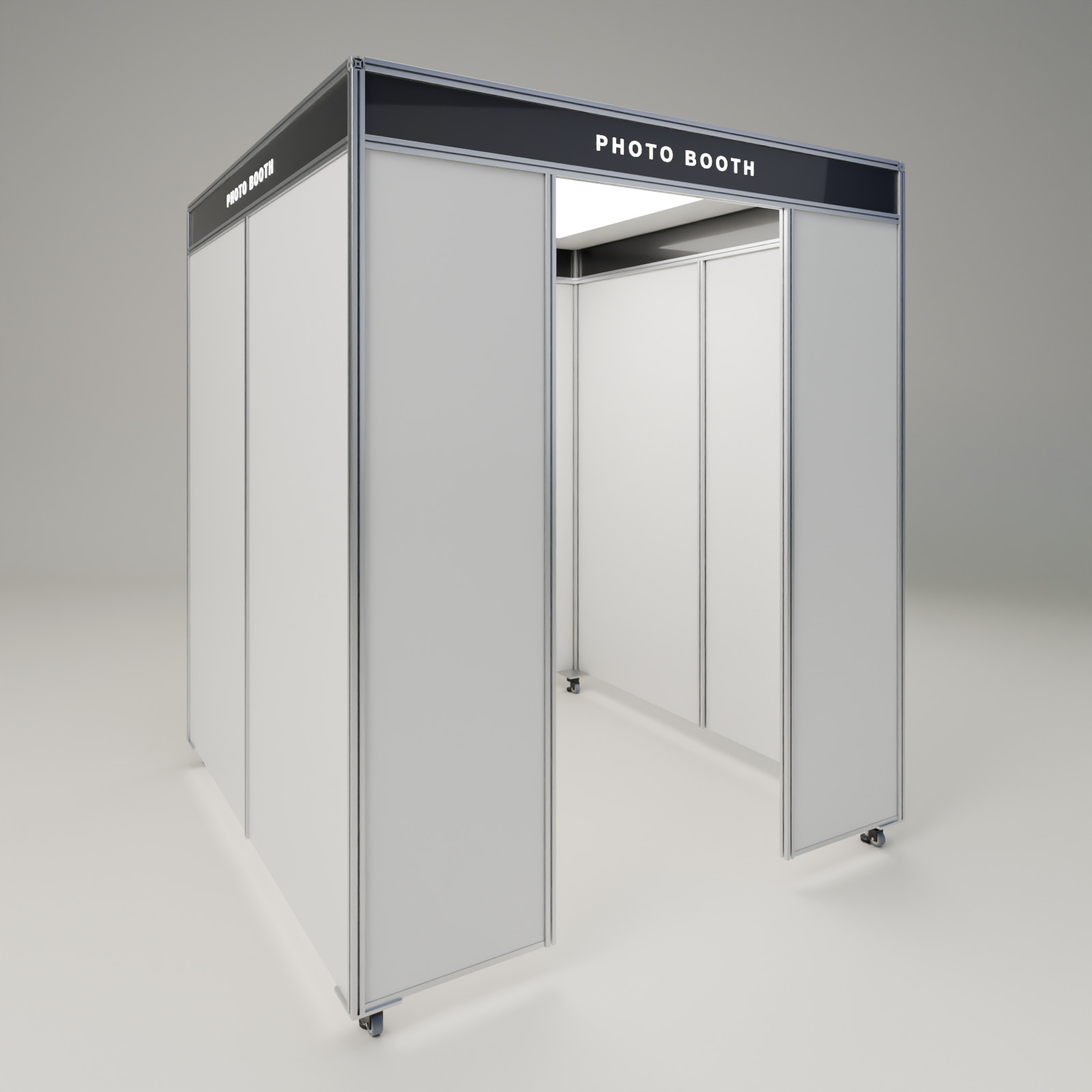
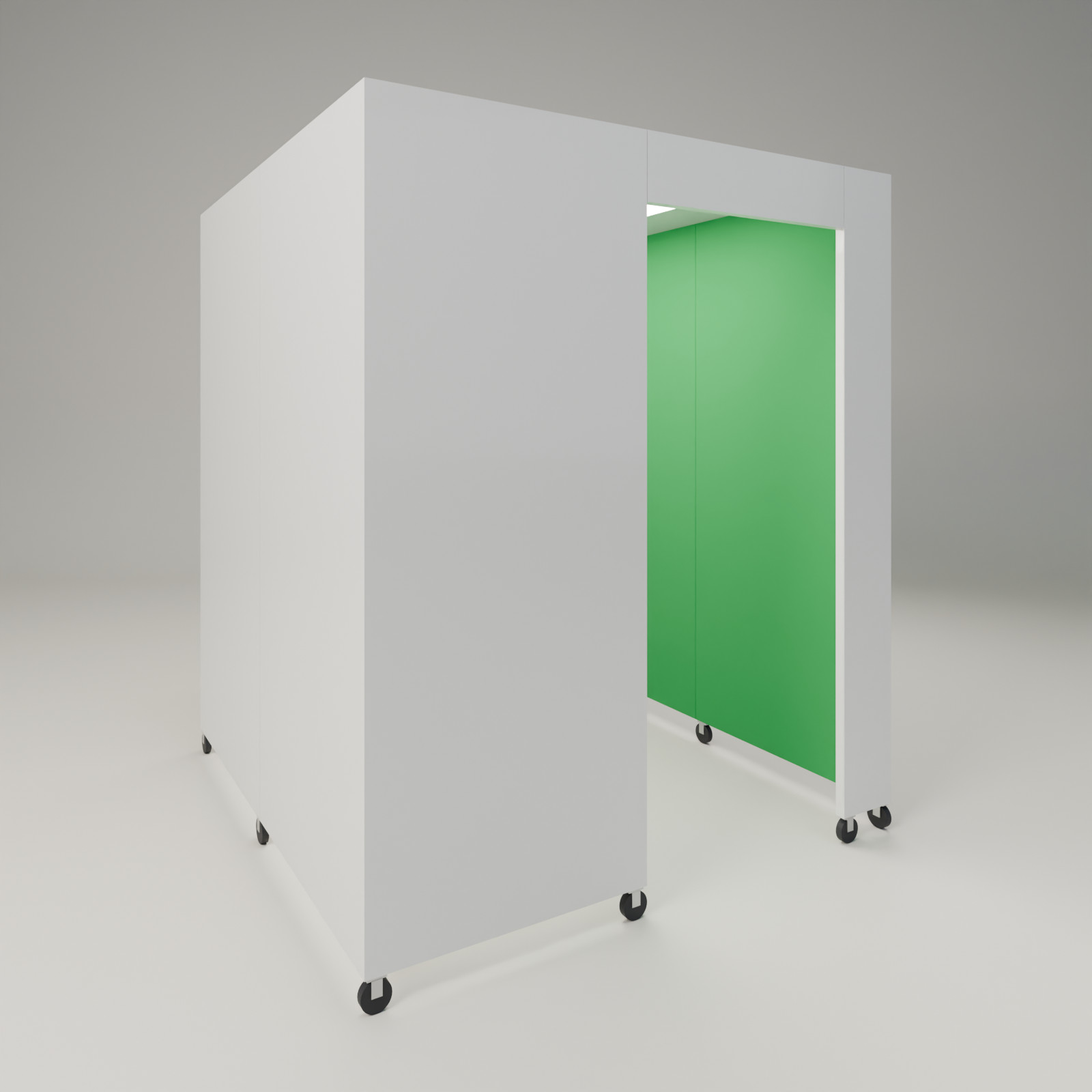
스탠다드 부스 정식 디자인 반영 — 표지 렌더·사양·갤러리
동주님 확정(2026-10-21): 화이트 외피(뼈대는 벽 속, 겉은 매끈) · 문을 보고 오른쪽 안쪽 벽만 무광 초록,
나머지 안쪽 흰색 · 가운데 숨은 경첩으로 옆·뒷면 반 접기, 입구 면은 두 조각 → 5조각 운반.

- 표지 6장(4x5·1x1·angle1~3·thumb) 새 디자인 CAD 렌더로 교체(같은 표지 스튜디오)
- 갤러리: 옛 디자인 CAD 렌더 5장(키오스크 세트·랩핑 예시·기본형·크기 비교·트럭) 제거,
  정식 디자인 '네 면 분리·반 접기·접은 5조각' 3장 추가
- 사양: 높이(바퀴 포함 약 2.19m)·구조·반입·이동 문구, 장점 '촬영 배경은 무광 초록 벽' 추가
- 과거 행사 실사 사진은 실제 납품 사례라 유지
site-gate 78 HTML PASS · build --check 바뀔 파일 없음 · 데스크톱/모바일 깨진 이미지 0

Claude-Session: https://claude.ai/code/session_01HGw79DZARAGa3xCFQSLrQB

diff --git a/products/standard-booth.html b/products/standard-booth.html
@@ -83,20 +83,20 @@
 <section class="pd-hero"><div class="wrap">
   <nav class="crumb" aria-label="현재 위치"><a href="../index.html">홈</a><span aria-hidden="true">›</span><a href="../products.html">제품</a><span aria-hidden="true">›</span><span aria-current="page">스탠다드 부스</span></nav>
   <div class="pd-grid">
-    <figure class="pd-cover"><img src="../assets/images/covers/standard-booth_4x5.jpg" width="1600" height="2000" alt="스탠다드 부스 — CAD 3D 렌더" srcset="../assets/images/covers/w800/standard-booth_4x5-w800-f1150465.jpg 800w, ../assets/images/covers/standard-booth_4x5.jpg 1600w" sizes="(max-width:560px) 74vw, (max-width:880px) 56vw, 580px" fetchpriority="high" decoding="async"><span class="render-tag">CAD 3D 렌더</span></figure>
+    <figure class="pd-cover"><img src="../assets/images/covers/standard-booth_4x5.jpg" width="1600" height="2000" alt="스탠다드 부스 — CAD 3D 렌더" srcset="../assets/images/covers/w800/standard-booth_4x5-w800-6d16eee1.jpg 800w, ../assets/images/covers/standard-booth_4x5.jpg 1600w" sizes="(max-width:560px) 74vw, (max-width:880px) 56vw, 580px" fetchpriority="high" decoding="async"><span class="render-tag">CAD 3D 렌더</span></figure>
     <div class="pd-info">
       <span class="idxlabel">제품 01 / 07</span>
       <h1>스탠다드 부스</h1>
       <p class="pd-tagline">4면 랩핑·설치·회수 포함, 루아미 주력 포토부스</p>
       <div class="pd-sum"><p class="pd-sum-p"><span class="pd-sum-k">렌탈</span><span class="amt" data-price-key="std_short">1개월 미만 185만원</span><small class="vat">부가세 별도</small></p><a class="pd-sum-q" href="../index.html?product=%EC%8A%A4%ED%83%A0%EB%8B%A4%EB%93%9C%20%EB%B6%80%EC%8A%A4#contact">무료 견적 받기 <span aria-hidden="true">→</span></a></div>
-      <div class="pd-chips"><span class="badge badge-main">주력</span><span class="badge badge-line">실사 16장</span><span class="badge badge-line">CAD 3D 렌더 8장</span></div>
+      <div class="pd-chips"><span class="badge badge-main">주력</span><span class="badge badge-line">실사 16장</span><span class="badge badge-line">CAD 3D 렌더 6장</span></div>
       <p class="pd-lead">가로·세로 1.86m, 높이 약 2.1m의 정사각형 포토부스입니다. 1개월 미만 렌탈 패키지에 촬영 키오스크(부스 안에서 찍고 출력하는 기계), 4면 랩핑(겉면 네 면에 행사 디자인을 인쇄해 붙이는 것), 인화지(사진 출력 용지) 1,400매, 설치·회수(행사 후 철거해 가져감)가 모두 포함됩니다. 운송비는 별도입니다.</p>
       <div class="pricebox">
         <div class="pb-row"><span class="pb-k">렌탈</span><span class="pb-v"><span class="amt" data-price-key="std_short">1개월 미만 185만원</span> <small class="vat">부가세 별도</small></span></div><div class="pb-row"><span class="pb-k">구매</span><span class="pb-v"><span class="amt" data-price-key="std_buy">500만원</span> <small class="vat">부가세 별도</small></span></div>
         <div class="pb-ie"><span class="pb-k">포함</span><ul class="pb-inc" data-list="included"><li data-item="부스 1대">부스 1대</li><li data-item="촬영 키오스크">촬영 키오스크</li><li data-item="4면 랩핑">4면 랩핑</li><li data-item="인화지 1,400매">인화지 1,400매</li><li data-item="설치·회수">설치·회수</li></ul></div><div class="pb-ie"><span class="pb-k">별도</span><span class="pb-sep">운송비 · 추가 대수·기간·인화지</span></div>
         <p class="pb-note"><a href="#price">가격 조건 보기</a> · <a href="../pricing.html">전체 가격표</a></p>
       </div>
-      <nav class="pd-jump" aria-label="이 페이지 바로가기"><a href="#gallery">사진 24장</a><a href="#stories">사례·이야기 10</a><a href="#faq">자주 묻는 질문</a></nav>
+      <nav class="pd-jump" aria-label="이 페이지 바로가기"><a href="#gallery">사진 22장</a><a href="#stories">사례·이야기 10</a><a href="#faq">자주 묻는 질문</a></nav>
       <div class="pd-cta"><a class="btn" href="../index.html?product=%EC%8A%A4%ED%83%A0%EB%8B%A4%EB%93%9C%20%EB%B6%80%EC%8A%A4#contact">무료 견적 받기 <svg width="16" height="16" viewBox="0 0 24 24" fill="none" stroke="currentColor" stroke-width="2" stroke-linecap="round" stroke-linejoin="round" aria-hidden="true"><path d="M5 12h14M13 6l6 6-6 6"/></svg></a><a class="btn-ghost" href="https://pf.kakao.com/_YRxoPX/chat" target="_blank" rel="noopener">카톡으로 바로 상담</a></div>
     </div>
   </div>
@@ -109,13 +109,14 @@
     <li><b>4면 랩핑 기본 포함</b><span>앞·뒤·양옆 네 면을 행사 디자인으로 감싸, 멀리서도 포토존이 한눈에 보입니다.</span></li>
     <li><b>문 없는 입구(폭 약 80cm)</b><span>앞면에 문짝 없이 폭 약 80cm 입구가 열려 있어 처음 보는 사람도 쉽게 들어갑니다. 커튼은 행사에 맞춰 달지 말지 정하시면 됩니다.</span></li>
     <li><b>정가 렌탈, 바로 예산 확정</b><span>부스·촬영 키오스크·랩핑·인화지 1,400매·설치·회수를 한 가격에 묶은 정가 렌탈이라, 견적을 여러 번 주고받지 않아도 예산을 바로 잡을 수 있습니다.</span></li>
-    <li><b>바닥판 없음 · 접어서 운반</b><span>바닥판 없이 설치 장소 바닥을 그대로 쓰고, 벽면을 하나씩 떼어 접어서 옮깁니다.</span></li>
+    <li><b>바닥판 없음 · 5조각으로 접어서 운반</b><span>바닥판 없이 설치 장소 바닥을 그대로 쓰고, 네 면을 떼어 옆·뒷면은 반으로 접고 입구 면은 두 조각으로 나눠 5조각으로 옮깁니다. 접는 경첩은 벽 속에 숨어 있어 안팎 어디서도 보이지 않습니다.</span></li>
+    <li><b>촬영 배경은 무광 초록 벽</b><span>문을 보고 오른쪽 안쪽 벽은 빛 반사가 적은 무광 초록이고, 나머지 안쪽 벽은 흰색입니다. 겉면은 뼈대가 드러나지 않는 매끈한 흰 판이라 랩핑이 깔끔하게 붙습니다.</span></li>
     <li><b>촬영 화면도 행사 디자인으로</b><span>기계 첫 화면부터 사진 테두리(프레임)까지 행사에 맞게 바꿀 수 있습니다. 인천대학교 학위수여식에서는 화면 10개를 모두 학교 디자인으로 바꿨습니다.</span></li>
   </ol>
 </div></section>
 <section class="pd-gallery" id="gallery"><div class="wrap">
   <div class="ps-head">
-    <div><span class="idxlabel">사진 24장</span><h2>사진으로 보기</h2><p>사진을 누르면 크게 볼 수 있습니다. 실제 사진이 아닌 설계 3D 이미지에는 ‘CAD 3D 렌더’라고 표시했습니다.</p></div>
+    <div><span class="idxlabel">사진 22장</span><h2>사진으로 보기</h2><p>사진을 누르면 크게 볼 수 있습니다. 실제 사진이 아닌 설계 3D 이미지에는 ‘CAD 3D 렌더’라고 표시했습니다.</p></div>
   </div>
   <div class="pg-grid" data-gallery="standard-booth">
     <a class="pg-item pg-wide" href="../assets/images/products/standard-booth/14-muji-wrap-front.webp" data-w="750" data-h="1000" data-caption="무인양품 구황장 · 4면 랩핑 정면"><img src="../assets/images/products/standard-booth/thumb/14-muji-wrap-front.webp" srcset="../assets/images/products/standard-booth/thumb/14-muji-wrap-front.webp 450w, ../assets/images/products/standard-booth/14-muji-wrap-front.webp 750w" sizes="(max-width:880px) 96vw, 610px" width="750" height="1000" alt="무인양품 「2026 연결되는 시장 · 구황장」 그래픽으로 네 면을 랩핑한 스탠다드 부스 정면 — 야간 실내 광장, 열린 출입구의 흰 조명" loading="lazy" decoding="async"><span class="pg-cap">무인양품 구황장 · 4면 랩핑 정면</span></a>
@@ -133,14 +134,12 @@
     <a class="pg-item" href="../assets/images/products/standard-booth/18-kiosk-inside-muji.webp" data-w="750" data-h="1000" data-caption="부스 안 구성 · 키오스크와 랩핑 패널"><img src="../assets/images/products/standard-booth/thumb/18-kiosk-inside-muji.webp" srcset="../assets/images/products/standard-booth/thumb/18-kiosk-inside-muji.webp 450w, ../assets/images/products/standard-booth/18-kiosk-inside-muji.webp 750w" sizes="(max-width:880px) 48vw, 300px" width="750" height="1000" alt="무인양품 랩핑 패널 너머로 보이는 부스 내부 — 천장 조명, 원형 링조명 카메라, 진회색 촬영 키오스크" loading="lazy" decoding="async"><span class="pg-cap">부스 안 구성 · 키오스크와 랩핑 패널</span></a>
     <a class="pg-item" href="../assets/images/products/standard-booth/19-kiosk-inside-angle.webp" data-w="750" data-h="1000" data-caption="부스 안 구성 · 다른 각도"><img src="../assets/images/products/standard-booth/thumb/19-kiosk-inside-angle.webp" srcset="../assets/images/products/standard-booth/thumb/19-kiosk-inside-angle.webp 450w, ../assets/images/products/standard-booth/19-kiosk-inside-angle.webp 750w" sizes="(max-width:880px) 48vw, 300px" width="750" height="1000" alt="부스 안 촬영 키오스크와 링조명 카메라를 비스듬히 본 모습 — 흰 내벽과 천장 조명" loading="lazy" decoding="async"><span class="pg-cap">부스 안 구성 · 다른 각도</span></a>
     <a class="pg-item" href="../assets/images/products/standard-booth/10-top-corner.webp" data-w="1600" data-h="1600" data-caption="상단 모서리·천장판 마감"><img src="../assets/images/products/standard-booth/thumb/10-top-corner.webp" srcset="../assets/images/products/standard-booth/thumb/10-top-corner.webp 600w, ../assets/images/products/standard-booth/10-top-corner.webp 1600w" sizes="(max-width:880px) 48vw, 300px" width="1600" height="1600" alt="랩핑 부스 상단 모서리 마감 — 알루미늄 몰딩과 천장판, 테두리 일러스트 그래픽" loading="lazy" decoding="async"><span class="pg-cap">상단 모서리·천장판 마감</span></a>
-    <a class="pg-item" href="../assets/images/covers/standard-booth_angle1.jpg" data-w="1600" data-h="1200" data-caption="CAD 3D 렌더 · 정면"><img src="../assets/images/covers/w800/standard-booth_angle1-w800-97bba99f.jpg" srcset="../assets/images/covers/w800/standard-booth_angle1-w800-97bba99f.jpg 800w, ../assets/images/covers/standard-booth_angle1.jpg 1600w" sizes="(max-width:880px) 48vw, 300px" width="1600" height="1200" alt="스탠다드 부스 CAD 3D 렌더 — 정면" loading="lazy" decoding="async"><span class="render-tag">CAD 3D 렌더</span><span class="pg-cap">정면</span></a>
-    <a class="pg-item" href="../assets/images/covers/standard-booth_angle2.jpg" data-w="1600" data-h="1200" data-caption="CAD 3D 렌더 · 다른 방향"><img src="../assets/images/covers/w800/standard-booth_angle2-w800-29a10690.jpg" srcset="../assets/images/covers/w800/standard-booth_angle2-w800-29a10690.jpg 800w, ../assets/images/covers/standard-booth_angle2.jpg 1600w" sizes="(max-width:880px) 48vw, 300px" width="1600" height="1200" alt="스탠다드 부스 CAD 3D 렌더 — 다른 방향" loading="lazy" decoding="async"><span class="render-tag">CAD 3D 렌더</span><span class="pg-cap">다른 방향</span></a>
-    <a class="pg-item" href="../assets/images/covers/standard-booth_angle3.jpg" data-w="1600" data-h="1200" data-caption="CAD 3D 렌더 · 높은 시점"><img src="../assets/images/covers/w800/standard-booth_angle3-w800-4e7e5ffb.jpg" srcset="../assets/images/covers/w800/standard-booth_angle3-w800-4e7e5ffb.jpg 800w, ../assets/images/covers/standard-booth_angle3.jpg 1600w" sizes="(max-width:880px) 48vw, 300px" width="1600" height="1200" alt="스탠다드 부스 CAD 3D 렌더 — 높은 시점" loading="lazy" decoding="async"><span class="render-tag">CAD 3D 렌더</span><span class="pg-cap">높은 시점</span></a>
-    <a class="pg-item" href="../assets/images/covers/standard-booth_set_4x5.jpg" data-w="1600" data-h="2000" data-caption="CAD 3D 렌더 · 부스 안 촬영 키오스크 구성"><img src="../assets/images/covers/w800/standard-booth_set_4x5-w800-916dc41f.jpg" srcset="../assets/images/covers/w800/standard-booth_set_4x5-w800-916dc41f.jpg 800w, ../assets/images/covers/standard-booth_set_4x5.jpg 1600w" sizes="(max-width:880px) 48vw, 300px" width="1600" height="2000" alt="스탠다드 부스 CAD 3D 렌더 — 열린 앞면 안쪽에 진회색 경사형 촬영 키오스크와 원형 링조명 카메라" loading="lazy" decoding="async"><span class="render-tag">CAD 3D 렌더</span><span class="pg-cap">부스 안 촬영 키오스크 구성</span></a>
-    <a class="pg-item" href="../assets/images/covers/standard-booth_set_wrap_4x5.jpg" data-w="1600" data-h="2000" data-caption="CAD 3D 렌더 · 4면 랩핑 예시 무늬"><img src="../assets/images/covers/w800/standard-booth_set_wrap_4x5-w800-e3596c6e.jpg" srcset="../assets/images/covers/w800/standard-booth_set_wrap_4x5-w800-e3596c6e.jpg 800w, ../assets/images/covers/standard-booth_set_wrap_4x5.jpg 1600w" sizes="(max-width:880px) 48vw, 300px" width="1600" height="2000" alt="스탠다드 부스 CAD 3D 렌더 — 겉면에 일러스트 무늬를 랩핑한 예시와 안쪽 촬영 키오스크" loading="lazy" decoding="async"><span class="render-tag">CAD 3D 렌더</span><span class="pg-cap">4면 랩핑 예시 무늬</span></a>
-    <a class="pg-item" href="../assets/images/products/standard-booth/11-render-hero.webp" data-w="1600" data-h="1600" data-caption="CAD 3D 렌더 · 기본형"><img src="../assets/images/products/standard-booth/thumb/11-render-hero.webp" srcset="../assets/images/products/standard-booth/thumb/11-render-hero.webp 600w, ../assets/images/products/standard-booth/11-render-hero.webp 1600w" sizes="(max-width:880px) 48vw, 300px" width="1600" height="1600" alt="스탠다드 부스 CAD 3D 렌더 — 1860×1860×2100mm 흰색 알루미늄 패널 부스, 문 없는 출입구와 하단 캐스터" loading="lazy" decoding="async" style="object-fit:contain;background:linear-gradient(#bebdbd,#b5b3b1)"><span class="render-tag">CAD 3D 렌더</span><span class="pg-cap">기본형</span></a>
-    <a class="pg-item" href="../assets/images/products/standard-booth/12-render-scale.webp" data-w="1400" data-h="894" data-caption="CAD 3D 렌더 · 사람과 크기 비교"><img src="../assets/images/products/standard-booth/thumb/12-render-scale.webp" srcset="../assets/images/products/standard-booth/thumb/12-render-scale.webp 600w, ../assets/images/products/standard-booth/12-render-scale.webp 1400w" sizes="(max-width:880px) 48vw, 300px" width="1400" height="894" alt="사람 모형 옆에 세운 스탠다드 부스 CAD 3D 렌더 — 크기 비교" loading="lazy" decoding="async" style="object-fit:contain;background:linear-gradient(#bebdbc,#b4b2b0)"><span class="render-tag">CAD 3D 렌더</span><span class="pg-cap">사람과 크기 비교</span></a>
-    <a class="pg-item" href="../assets/images/products/standard-booth/13-render-truck.webp" data-w="1400" data-h="894" data-caption="CAD 3D 렌더 · 접어서 트럭 운송"><img src="../assets/images/products/standard-booth/thumb/13-render-truck.webp" srcset="../assets/images/products/standard-booth/thumb/13-render-truck.webp 600w, ../assets/images/products/standard-booth/13-render-truck.webp 1400w" sizes="(max-width:880px) 48vw, 300px" width="1400" height="894" alt="면별로 접은 스탠다드 부스 판넬을 트럭 적재함에 실은 CAD 3D 렌더" loading="lazy" decoding="async" style="object-fit:contain;background:linear-gradient(#c3c2c2,#b4b2b0)"><span class="render-tag">CAD 3D 렌더</span><span class="pg-cap">접어서 트럭 운송</span></a>
+    <a class="pg-item" href="../assets/images/covers/standard-booth_angle1.jpg" data-w="1600" data-h="1200" data-caption="CAD 3D 렌더 · 정면"><img src="../assets/images/covers/w800/standard-booth_angle1-w800-ecce20e0.jpg" srcset="../assets/images/covers/w800/standard-booth_angle1-w800-ecce20e0.jpg 800w, ../assets/images/covers/standard-booth_angle1.jpg 1600w" sizes="(max-width:880px) 48vw, 300px" width="1600" height="1200" alt="스탠다드 부스 CAD 3D 렌더 — 정면" loading="lazy" decoding="async"><span class="render-tag">CAD 3D 렌더</span><span class="pg-cap">정면</span></a>
+    <a class="pg-item" href="../assets/images/covers/standard-booth_angle2.jpg" data-w="1600" data-h="1200" data-caption="CAD 3D 렌더 · 다른 방향"><img src="../assets/images/covers/w800/standard-booth_angle2-w800-087e30f5.jpg" srcset="../assets/images/covers/w800/standard-booth_angle2-w800-087e30f5.jpg 800w, ../assets/images/covers/standard-booth_angle2.jpg 1600w" sizes="(max-width:880px) 48vw, 300px" width="1600" height="1200" alt="스탠다드 부스 CAD 3D 렌더 — 다른 방향" loading="lazy" decoding="async"><span class="render-tag">CAD 3D 렌더</span><span class="pg-cap">다른 방향</span></a>
+    <a class="pg-item" href="../assets/images/covers/standard-booth_angle3.jpg" data-w="1600" data-h="1200" data-caption="CAD 3D 렌더 · 높은 시점"><img src="../assets/images/covers/w800/standard-booth_angle3-w800-ecd918d7.jpg" srcset="../assets/images/covers/w800/standard-booth_angle3-w800-ecd918d7.jpg 800w, ../assets/images/covers/standard-booth_angle3.jpg 1600w" sizes="(max-width:880px) 48vw, 300px" width="1600" height="1200" alt="스탠다드 부스 CAD 3D 렌더 — 높은 시점" loading="lazy" decoding="async"><span class="render-tag">CAD 3D 렌더</span><span class="pg-cap">높은 시점</span></a>
+    <a class="pg-item" href="../assets/images/covers/standard-booth_fold_separate.jpg" data-w="1600" data-h="1100" data-caption="CAD 3D 렌더 · 네 면 분리"><img src="../assets/images/covers/w800/standard-booth_fold_separate-w800-eaf1df93.jpg" srcset="../assets/images/covers/w800/standard-booth_fold_separate-w800-eaf1df93.jpg 800w, ../assets/images/covers/standard-booth_fold_separate.jpg 1600w" sizes="(max-width:880px) 48vw, 300px" width="1600" height="1100" alt="스탠다드 부스 CAD 3D 렌더 — 흰색 네 면을 바깥쪽으로 떼어 낸 모습, 문을 보고 오른쪽 안쪽 벽만 무광 초록" loading="lazy" decoding="async"><span class="render-tag">CAD 3D 렌더</span><span class="pg-cap">네 면 분리</span></a>
+    <a class="pg-item pg-w2" href="../assets/images/covers/standard-booth_fold_half.jpg" data-w="1600" data-h="1100" data-caption="CAD 3D 렌더 · 반 접기(숨은 경첩)"><img src="../assets/images/covers/w800/standard-booth_fold_half-w800-d26eeaa1.jpg" srcset="../assets/images/covers/w800/standard-booth_fold_half-w800-d26eeaa1.jpg 800w, ../assets/images/covers/standard-booth_fold_half.jpg 1600w" sizes="(max-width:880px) 96vw, 610px" width="1600" height="1100" alt="스탠다드 부스 CAD 3D 렌더 — 옆·뒷면 세 장을 가운데 숨은 경첩으로 반쯤 접고, 입구 면은 두 조각으로 나눈 모습" loading="lazy" decoding="async"><span class="render-tag">CAD 3D 렌더</span><span class="pg-cap">반 접기(숨은 경첩)</span></a>
+    <a class="pg-item pg-w2" href="../assets/images/covers/standard-booth_fold_pieces.jpg" data-w="1600" data-h="1100" data-caption="CAD 3D 렌더 · 접은 5조각"><img src="../assets/images/covers/w800/standard-booth_fold_pieces-w800-7d347ce4.jpg" srcset="../assets/images/covers/w800/standard-booth_fold_pieces-w800-7d347ce4.jpg 800w, ../assets/images/covers/standard-booth_fold_pieces.jpg 1600w" sizes="(max-width:880px) 96vw, 610px" width="1600" height="1100" alt="스탠다드 부스 CAD 3D 렌더 — 다 접은 흰색 판 5조각을 나란히 세운 모습(바퀴 달림)" loading="lazy" decoding="async"><span class="render-tag">CAD 3D 렌더</span><span class="pg-cap">접은 5조각</span></a>
     <a class="pg-item pg-w2" href="../assets/images/products/standard-booth/09-sketch-wrap.webp" data-w="1600" data-h="1600" data-caption="일러스트 랩핑 · 출고 전"><img src="../assets/images/products/standard-booth/thumb/09-sketch-wrap.webp" srcset="../assets/images/products/standard-booth/thumb/09-sketch-wrap.webp 600w, ../assets/images/products/standard-booth/09-sketch-wrap.webp 1600w" sizes="(max-width:880px) 96vw, 610px" width="1600" height="1600" alt="흰 바탕에 손그림 일러스트(고양이·산책하는 사람·도시)를 랩핑한 스탠다드 부스 — 출고 전 모습" loading="lazy" decoding="async"><span class="pg-cap">일러스트 랩핑 · 출고 전</span></a>
   </div>
 </div></section>
@@ -158,7 +157,7 @@
     <span class="idxlabel">추천 용도</span>
     <h2>이런 곳에 잘 맞습니다</h2>
     <ul class="fit-list"><li>학교 행사·학위수여식</li><li>기업 행사·런칭 행사</li><li>팝업스토어</li><li>매장에 계속 두는 상설 포토존</li><li>축제·페스티벌(여러 대 운영)</li></ul>
-    <div class="ins"><b class="ins-t">설치 조건</b><table class="ins-table" data-table="install"><tbody><tr><th scope="row">차지 면적</th><td>1,860 × 1,860mm (가로·세로 1.86m)</td></tr><tr><th scope="row">높이</th><td>2,100mm (2.1m) · 천장이 이보다 높아야 합니다</td></tr><tr><th scope="row">출입구</th><td>800 × 1,900mm · 문짝 없이 열린 앞면</td></tr><tr><th scope="row">구조</th><td>알루미늄 뼈대(30mm 프로파일) + 흰색 벽판 · 천장판 있음, 바닥판 없음</td></tr><tr><th scope="row">반입·이동</th><td>면별로 분리해 접어서 옮깁니다 · 바퀴 달림</td></tr></tbody></table><p class="ins-note">표에 없는 조건(전원·설치 시간 등)은 설치 장소를 확인한 뒤 안내해 드립니다.</p></div>
+    <div class="ins"><b class="ins-t">설치 조건</b><table class="ins-table" data-table="install"><tbody><tr><th scope="row">차지 면적</th><td>1,860 × 1,860mm (가로·세로 1.86m)</td></tr><tr><th scope="row">높이</th><td>2,100mm (2.1m) · 바퀴 포함 약 2,190mm · 천장이 이보다 높아야 합니다</td></tr><tr><th scope="row">출입구</th><td>800 × 1,900mm · 문짝 없이 열린 앞면</td></tr><tr><th scope="row">구조</th><td>흰색 벽판(뼈대는 벽 속에 들어가 겉은 매끈) · 안쪽은 문을 보고 오른쪽 벽만 무광 초록, 나머지 흰색 · 천장판 있음, 바닥판 없음</td></tr><tr><th scope="row">반입·이동</th><td>네 면을 떼어 옆·뒷면은 가운데 숨은 경첩으로 반 접고, 입구 면은 두 조각으로 나눠 5조각으로 옮깁니다 · 바퀴 달림</td></tr></tbody></table><p class="ins-note">표에 없는 조건(전원·설치 시간 등)은 설치 장소를 확인한 뒤 안내해 드립니다.</p></div>
   </div>
   <div>
     <span class="idxlabel">진행 순서</span>

diff --git a/products.html b/products.html
@@ -96,7 +96,7 @@
   </div>
   <div class="fc-grid">
     <article class="fc">
-      <a class="fc-im" href="products/standard-booth.html" tabindex="-1" aria-hidden="true" style="--fc-bg:linear-gradient(#858580,#d2d1cd)"><img src="assets/images/covers/standard-booth_4x5.jpg" width="1600" height="2000" alt="스탠다드 부스 — CAD 3D 렌더" srcset="assets/images/covers/w800/standard-booth_4x5-w800-f1150465.jpg 800w, assets/images/covers/standard-booth_4x5.jpg 1600w" sizes="(max-width:880px) 96vw, (max-width:1080px) 46vw, 300px" decoding="async" class="is-render"><span class="render-tag">CAD 3D 렌더</span></a>
+      <a class="fc-im" href="products/standard-booth.html" tabindex="-1" aria-hidden="true" style="--fc-bg:linear-gradient(#83847f,#cfcec9)"><img src="assets/images/covers/standard-booth_4x5.jpg" width="1600" height="2000" alt="스탠다드 부스 — CAD 3D 렌더" srcset="assets/images/covers/w800/standard-booth_4x5-w800-6d16eee1.jpg 800w, assets/images/covers/standard-booth_4x5.jpg 1600w" sizes="(max-width:880px) 96vw, (max-width:1080px) 46vw, 300px" decoding="async" class="is-render"><span class="render-tag">CAD 3D 렌더</span></a>
       <div class="fc-body">
         <div class="pc-chips"><span class="badge badge-main">주력</span><span class="fc-no">01 / 07</span></div>
         <h3><a href="products/standard-booth.html">스탠다드 부스</a></h3>
@@ -137,7 +137,7 @@
   <div class="pc-grid" id="pcGrid">
     <article class="pc" data-tags="booth price">
       <a href="products/standard-booth.html">
-        <figure class="pc-im"><img src="assets/images/covers/standard-booth_4x5.jpg" width="1600" height="2000" alt="스탠다드 부스 — CAD 3D 렌더" srcset="assets/images/covers/w800/standard-booth_4x5-w800-f1150465.jpg 800w, assets/images/covers/standard-booth_4x5.jpg 1600w" sizes="(max-width:640px) 40vw, (max-width:880px) 48vw, (max-width:1080px) 31vw, 300px" loading="lazy" decoding="async"><span class="pc-no">01</span><span class="badge badge-main pc-badge">주력</span><span class="render-tag">CAD 3D 렌더</span></figure>
+        <figure class="pc-im"><img src="assets/images/covers/standard-booth_4x5.jpg" width="1600" height="2000" alt="스탠다드 부스 — CAD 3D 렌더" srcset="assets/images/covers/w800/standard-booth_4x5-w800-6d16eee1.jpg 800w, assets/images/covers/standard-booth_4x5.jpg 1600w" sizes="(max-width:640px) 40vw, (max-width:880px) 48vw, (max-width:1080px) 31vw, 300px" loading="lazy" decoding="async"><span class="pc-no">01</span><span class="badge badge-main pc-badge">주력</span><span class="render-tag">CAD 3D 렌더</span></figure>
         <div class="pc-body">
           <div class="pc-chips"><span class="badge badge-line">부스</span></div>
           <h3>스탠다드 부스</h3>
